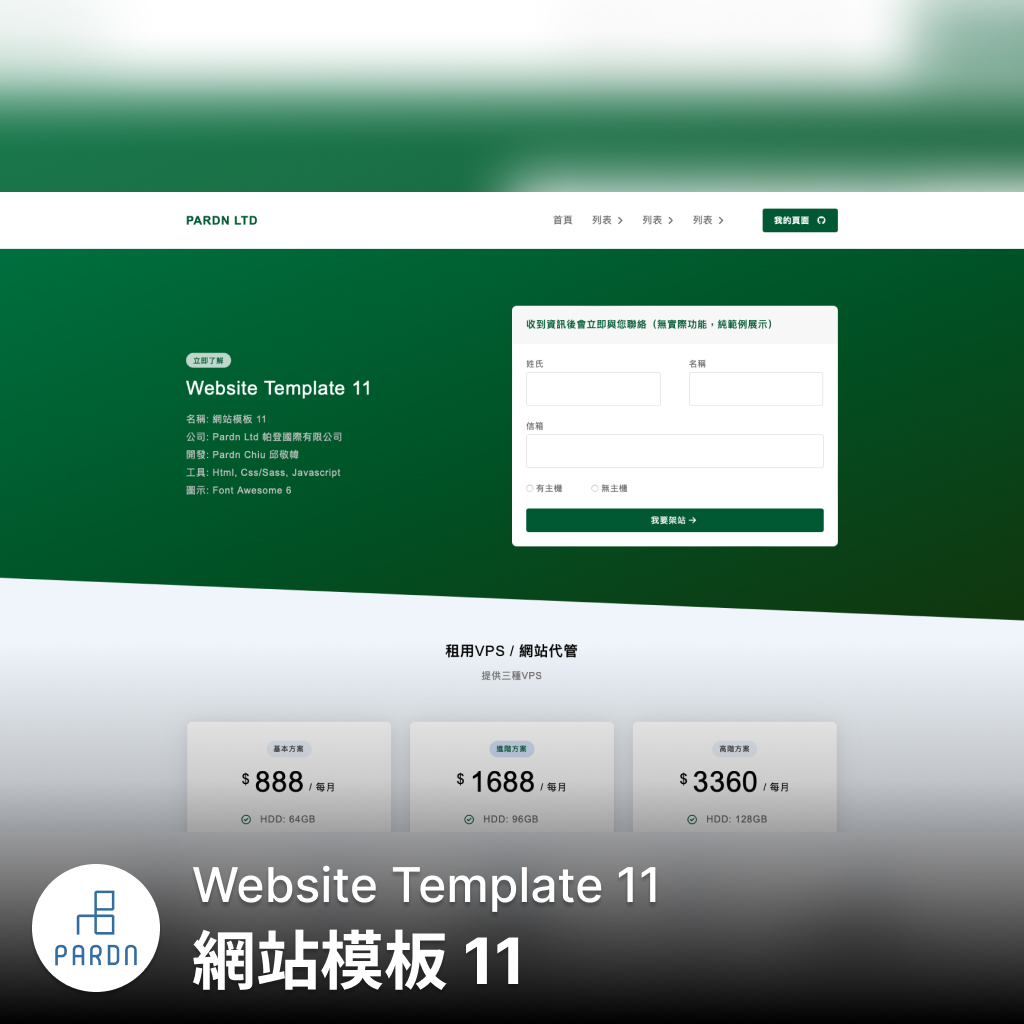
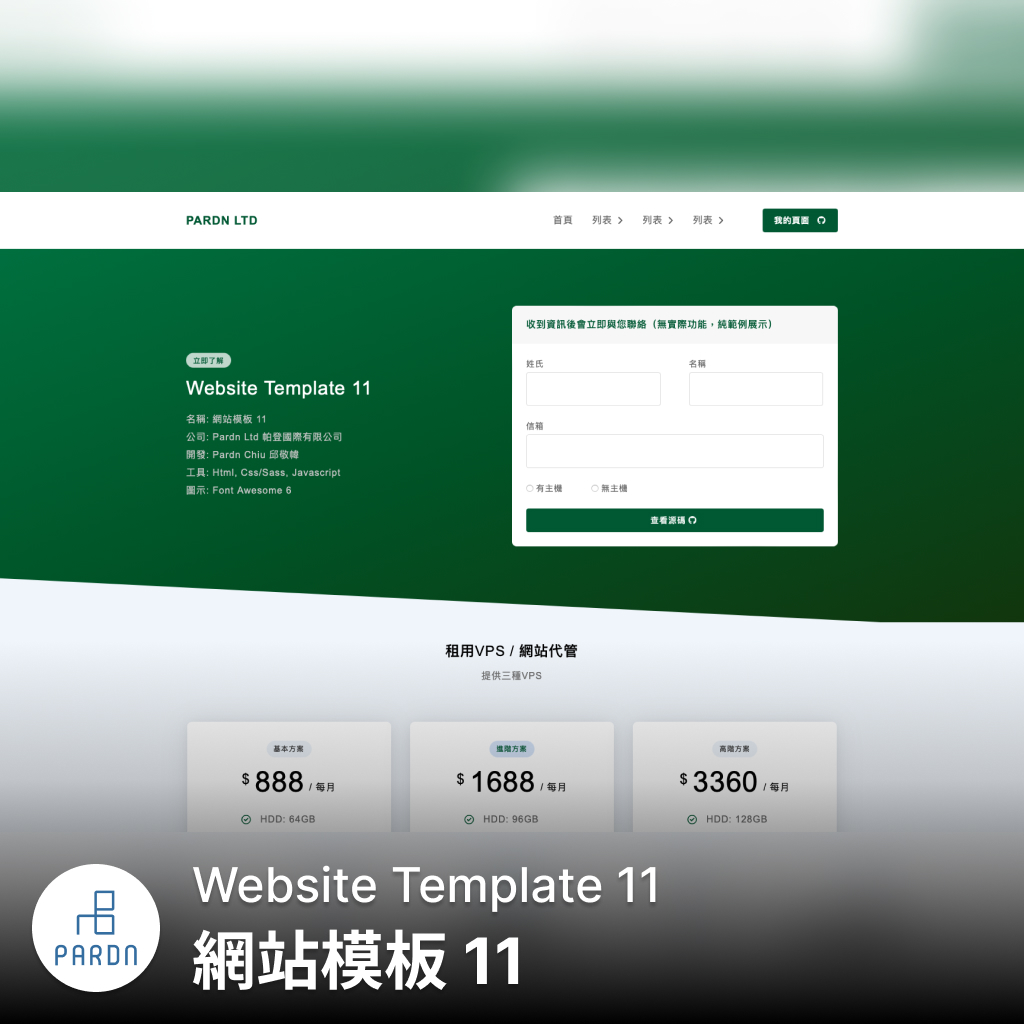
202303031750

Changed region(s): [[0.1875, 0.5625, 1.0, 0.625], [0.625, 0.5, 0.6875, 0.5312]]

diff --git a/index.html b/index.html
@@ -152,7 +152,9 @@
           <input type="radio" name="color" value="blue">
           無主機
         </label>
-        <button>我要架站<i class="fas fa-arrow-right"></i></button>
+        <button onclick="window.open('https://github.com/pardnchiu/website-template-11/', '_blank')">
+					查看源碼<i class="fa-brands fa-github"></i>
+				</button>
       </form>
       <div>
         <div>
